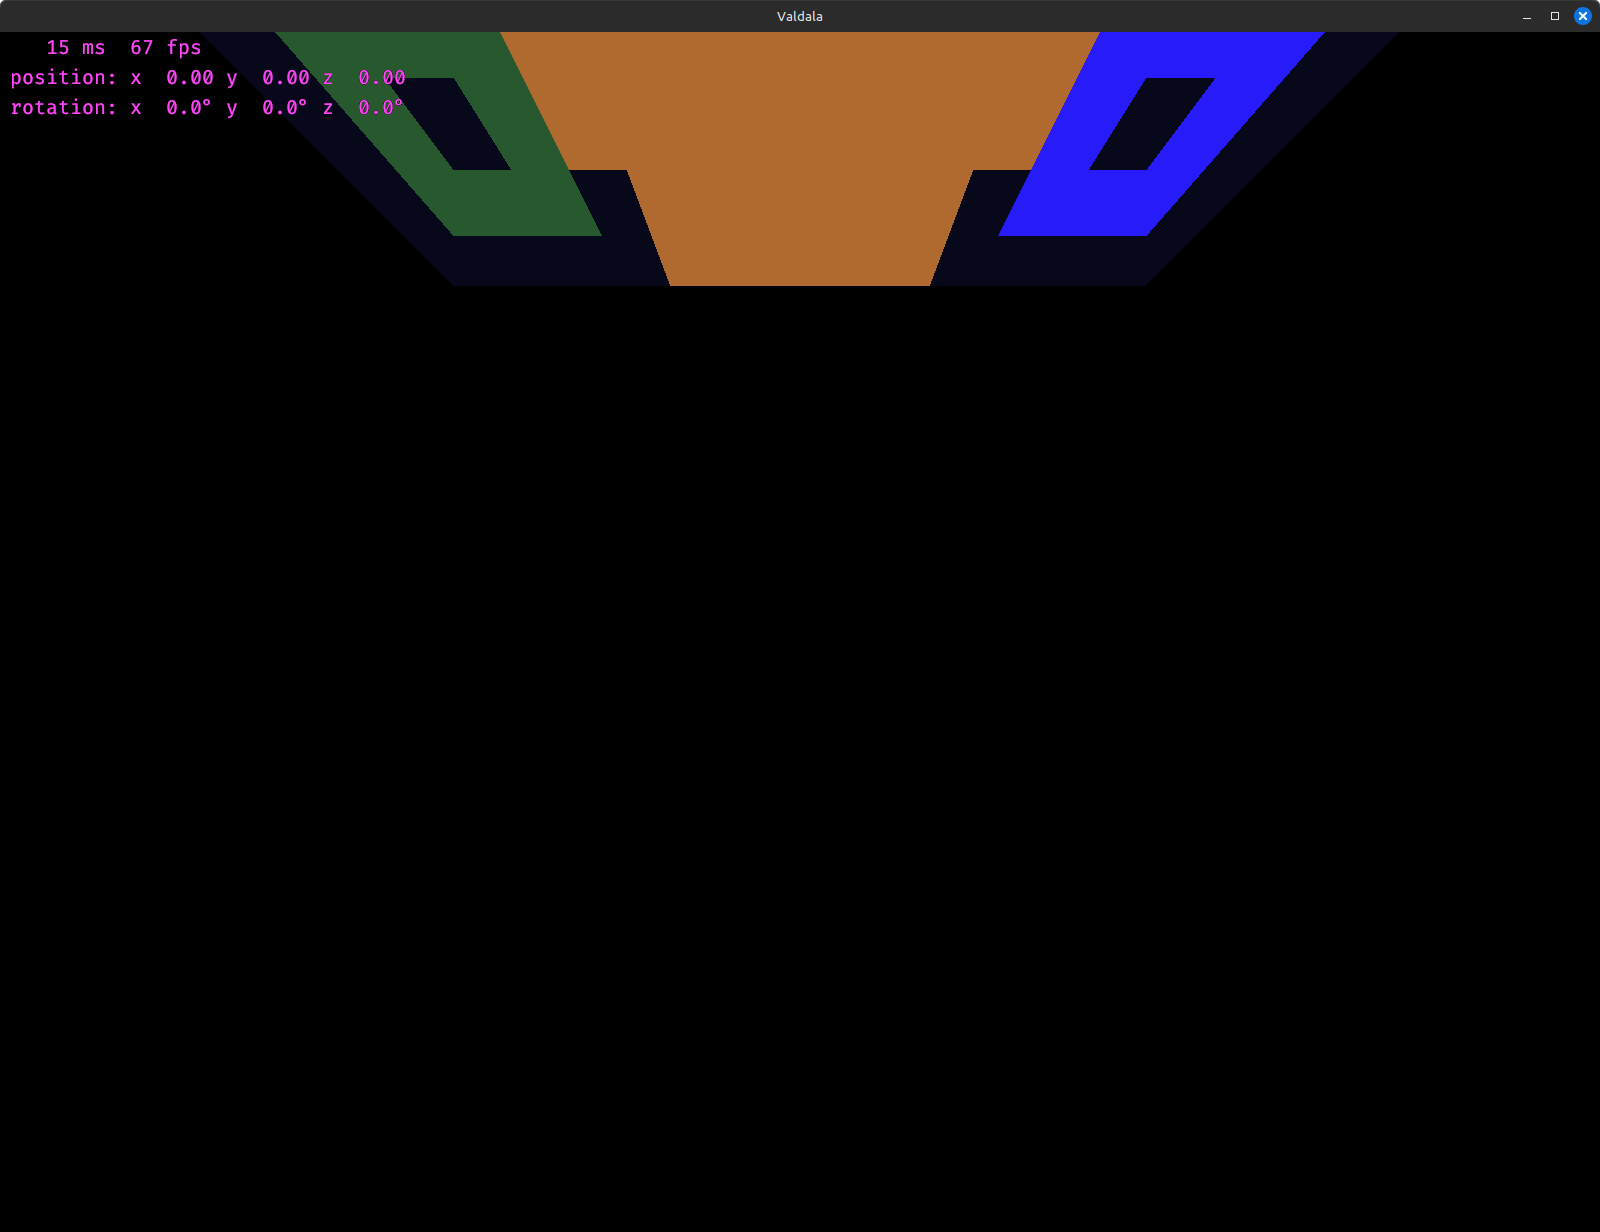
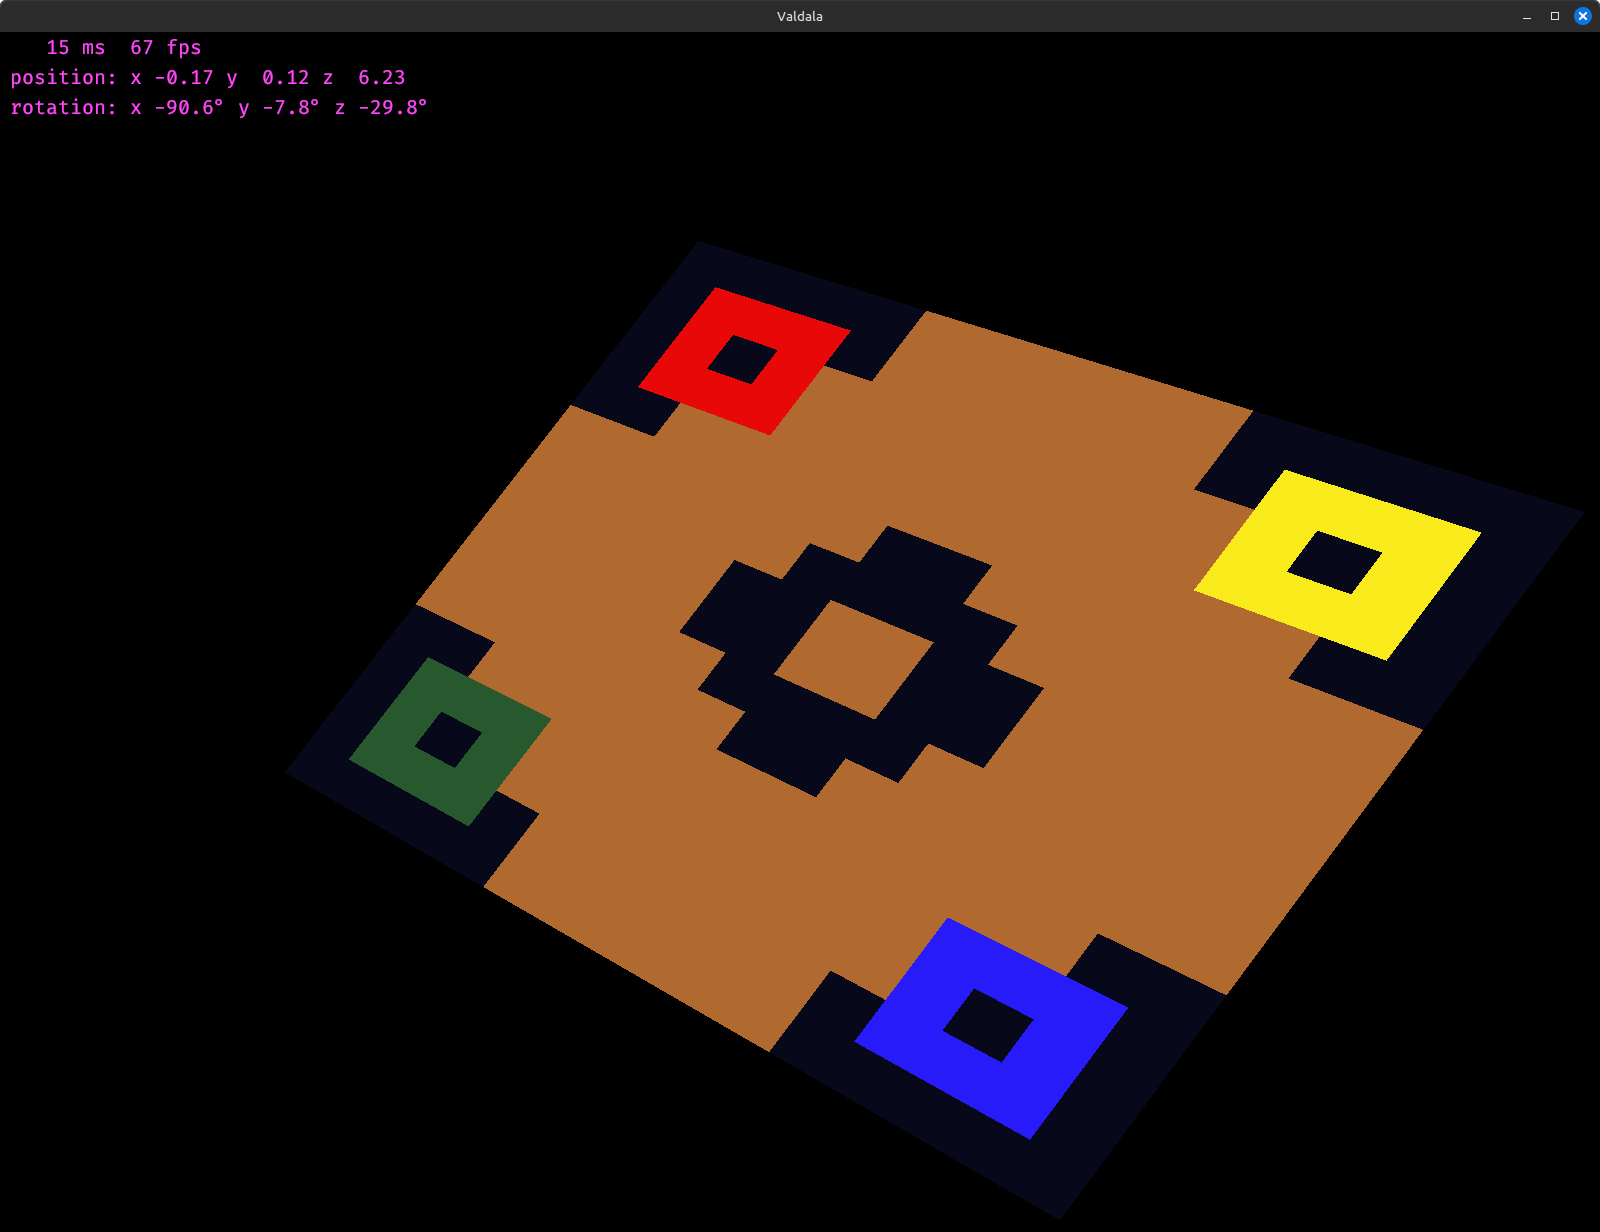
update progress

diff --git a/README.md b/README.md
@@ -87,6 +87,8 @@ Even worse, I had to brush up my maths and nearly non-existent graphics programm
 
 Could I just use an engine instead? Sure, but where's the fun in that?
 
-Starting to get a debug overlay working. Next step: making it useful...
+Some basic debugging overlay and controls are working:
 
 ![screenshot](screenshot.png)
+
+Time to finally fix the view projection...
